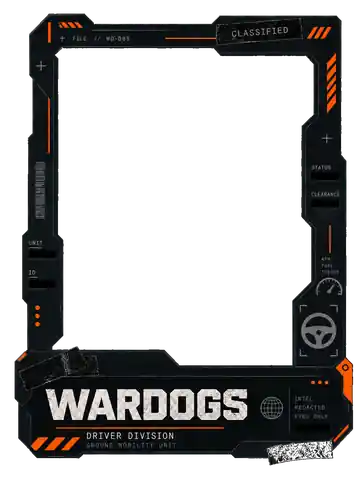
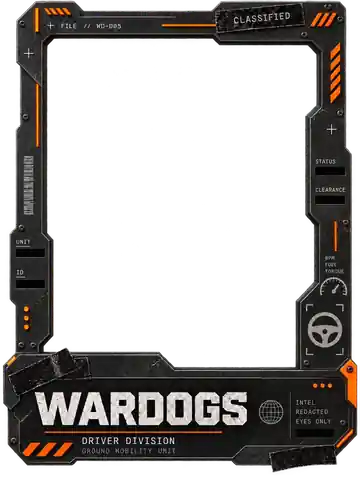
Replace Driver and Pilot frames and localize WARDOGS class labels

diff --git a/index.html b/index.html
@@ -843,10 +843,10 @@ body[data-mws-mode="admin"] .sidebar-build-version-v53{display:block}
           <div class="wardogs-class-tabs-v117" role="tablist" aria-label="WARDOGS 클래스">
             <button type="button" class="wardogs-class-tab-v117 active" data-wardogs-class="assault" role="tab" aria-selected="true"><span class="wd-class-code">ASLT // 01</span><span class="wd-class-name">ASSAULT</span></button>
             <button type="button" class="wardogs-class-tab-v117" data-wardogs-class="medic" role="tab" aria-selected="false" tabindex="-1"><span class="wd-class-code">MED // 02</span><span class="wd-class-name">MEDIC</span></button>
-            <button type="button" class="wardogs-class-tab-v117" data-wardogs-class="recon" role="tab" aria-selected="false" tabindex="-1"><span class="wd-class-code">RCN // 03</span><span class="wd-class-name">RECON</span></button>
+            <button type="button" class="wardogs-class-tab-v117" data-wardogs-class="recon" role="tab" aria-selected="false" tabindex="-1"><span class="wd-class-code">RCN // 03</span><span class="wd-class-name">리콘</span></button>
             <button type="button" class="wardogs-class-tab-v117" data-wardogs-class="support" role="tab" aria-selected="false" tabindex="-1"><span class="wd-class-code">SUP // 04</span><span class="wd-class-name">서포트</span></button>
-            <button type="button" class="wardogs-class-tab-v117" data-wardogs-class="driver" role="tab" aria-selected="false" tabindex="-1"><span class="wd-class-code">DRV // 05</span><span class="wd-class-name">DRIVER</span></button>
-            <button type="button" class="wardogs-class-tab-v117" data-wardogs-class="pilot" role="tab" aria-selected="false" tabindex="-1"><span class="wd-class-code">PLT // 06</span><span class="wd-class-name">PILOT</span></button>
+            <button type="button" class="wardogs-class-tab-v117" data-wardogs-class="driver" role="tab" aria-selected="false" tabindex="-1"><span class="wd-class-code">DRV // 05</span><span class="wd-class-name">드라이버</span></button>
+            <button type="button" class="wardogs-class-tab-v117" data-wardogs-class="pilot" role="tab" aria-selected="false" tabindex="-1"><span class="wd-class-code">PLT // 06</span><span class="wd-class-name">파일럿</span></button>
           </div>
 
           <div class="wardogs-class-stage-v117" role="tabpanel" aria-live="polite">
@@ -1659,8 +1659,8 @@ body[data-mws-mode="admin"] .sidebar-build-version-v53{display:block}
 <script src="assets/app-core.js?v=1.3.0-search115-wardogs116-backup126-datetime149"></script>
 <script src="assets/wardogs-data-v1.js?v=1.0.0-phase120-webview130-zoom138"></script>
 <script src="assets/wardogs-media-v1.js?v=1.0.0-phase121-backup126-webview130"></script>
-<script src="assets/wardogs-manager-v1.js?v=1.0.0-phase127-touchfix-webview130-frame140-frame144-frames150-aperture152-assault157-medic158-recon159-support160"></script>
-<script src="assets/wardogs-v1.js?v=1.0.0-phase125-portrait138-soopid141-frames150-aperture152-assault157-medic158-recon159-support160"></script>
+<script src="assets/wardogs-manager-v1.js?v=1.0.0-phase127-touchfix-webview130-frame140-frame144-frames150-aperture152-assault157-medic158-recon159-support160-driver161-pilot162"></script>
+<script src="assets/wardogs-v1.js?v=1.0.0-phase125-portrait138-soopid141-frames150-aperture152-assault157-medic158-recon159-support160-driver161-pilot162"></script>
 <script src="assets/wardogs-intro-v1.js?v=1.0.0-phase118"></script>
 
 

diff --git a/assets/wardogs-v1.js b/assets/wardogs-v1.js
@@ -9,8 +9,8 @@ const CLASSES=Object.freeze([
   {id:'medic',name:'메딕',code:'MED',label:'메딕'},
   {id:'recon',name:'리콘',code:'RCN',label:'리콘'},
   {id:'support',name:'서포트',code:'SUP',label:'서포트'},
-  {id:'driver',name:'DRIVER',code:'DRV',label:'Driver'},
-  {id:'pilot',name:'PILOT',code:'PLT',label:'Pilot'}
+  {id:'driver',name:'드라이버',code:'DRV',label:'드라이버'},
+  {id:'pilot',name:'파일럿',code:'PLT',label:'파일럿'}
 ]);
 
 const CLASS_FRAMES=Object.freeze({
@@ -18,8 +18,8 @@ const CLASS_FRAMES=Object.freeze({
   medic:'assets/wardogs-frames/medic.webp?v=phase158',
   recon:'assets/wardogs-frames/recon.webp?v=phase159',
   support:'assets/wardogs-frames/support.webp?v=phase160',
-  driver:'assets/wardogs-frames/driver.webp?v=phase150',
-  pilot:'assets/wardogs-frames/pilot.webp?v=phase150'
+  driver:'assets/wardogs-frames/driver.webp?v=phase161',
+  pilot:'assets/wardogs-frames/pilot.webp?v=phase162'
 });
 function applyClassFrame(layer,classId){
   if(!layer)return;

diff --git a/assets/wardogs-manager-v1.js b/assets/wardogs-manager-v1.js
@@ -9,8 +9,8 @@ const CLASS_META=Object.freeze([
   {id:'medic',label:'메딕'},
   {id:'recon',label:'리콘'},
   {id:'support',label:'서포트'},
-  {id:'driver',label:'DRIVER'},
-  {id:'pilot',label:'PILOT'}
+  {id:'driver',label:'드라이버'},
+  {id:'pilot',label:'파일럿'}
 ]);
 const CLASS_RANK=new Map(CLASS_META.map((item,index)=>[item.id,index]));
 
@@ -19,8 +19,8 @@ const CLASS_FRAMES=Object.freeze({
   medic:'assets/wardogs-frames/medic.webp?v=phase158',
   recon:'assets/wardogs-frames/recon.webp?v=phase159',
   support:'assets/wardogs-frames/support.webp?v=phase160',
-  driver:'assets/wardogs-frames/driver.webp?v=phase150',
-  pilot:'assets/wardogs-frames/pilot.webp?v=phase150'
+  driver:'assets/wardogs-frames/driver.webp?v=phase161',
+  pilot:'assets/wardogs-frames/pilot.webp?v=phase162'
 });
 
 let modal=null;
